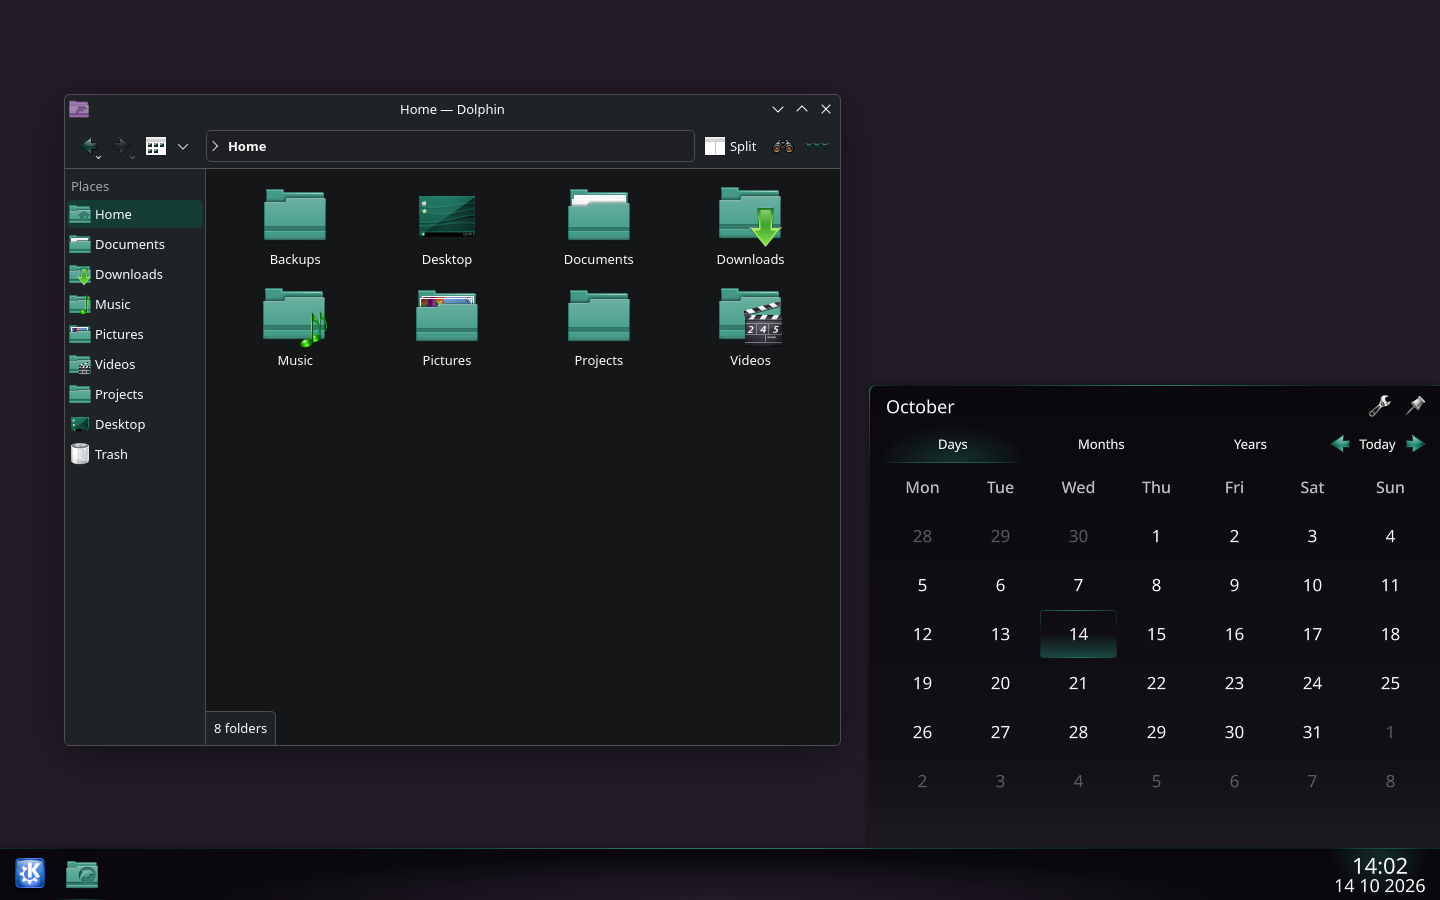
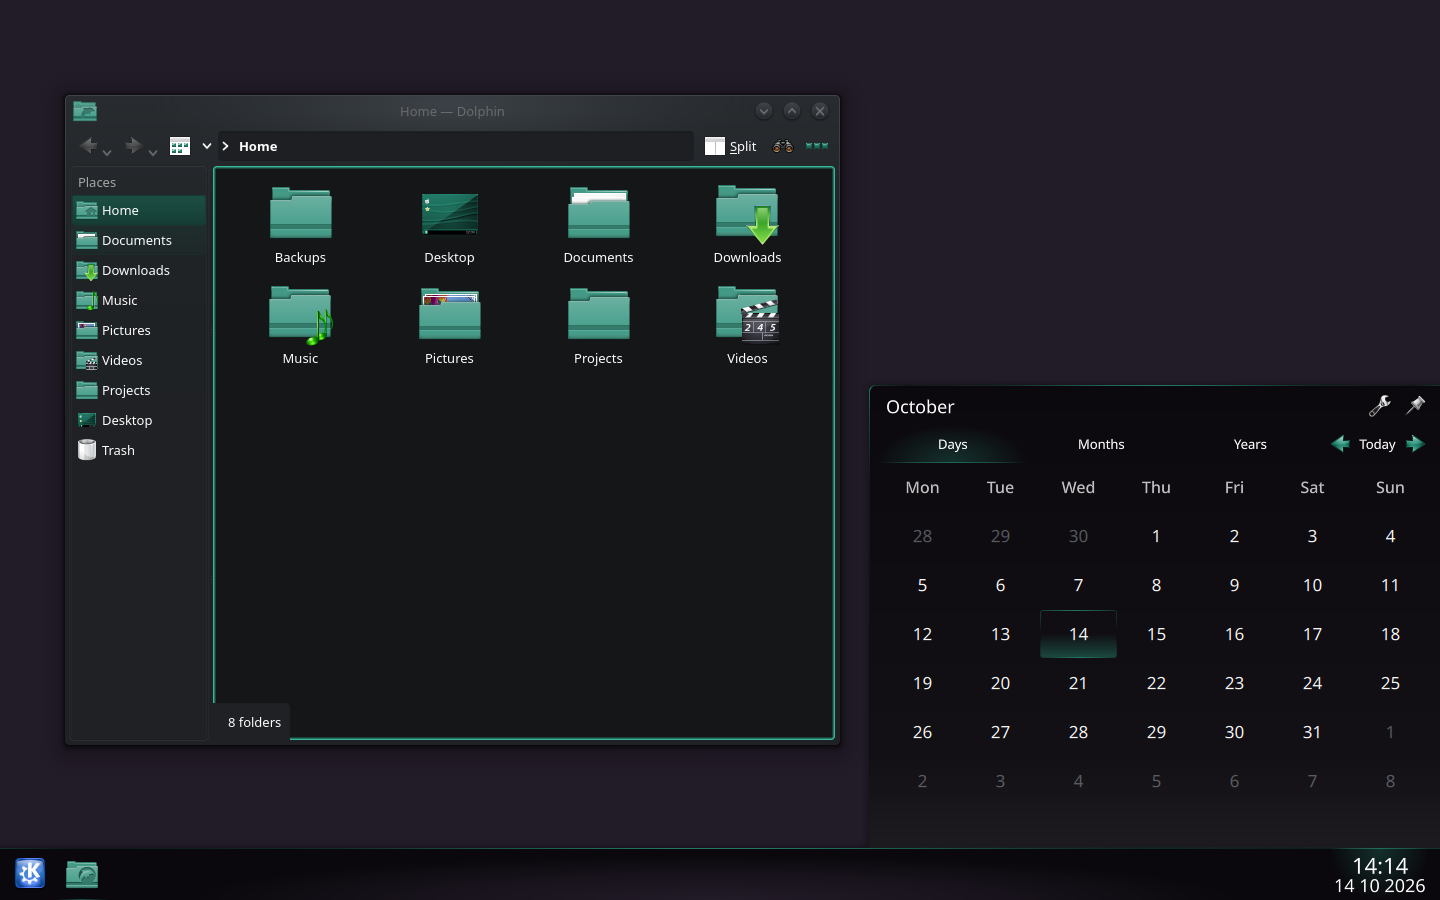
docs: show screenshots with Oxygen styling and window decorations

diff --git a/README.md b/README.md
@@ -34,7 +34,9 @@ Green accent with the same themes.
 
 ![Oxygen Accent with a green accent](screenshots/green.png)
 
-These screenshots use example folders in a hidden virtual Plasma session with a separate profile.
+The screenshots also use Oxygen's application style and window decorations. To match them, select Oxygen under Application Style and Window Decorations. On Arch Linux, the `oxygen` package provides these components.
+
+The screenshots use example folders in a hidden virtual Plasma session with a separate profile.
 
 ## Remove
 
